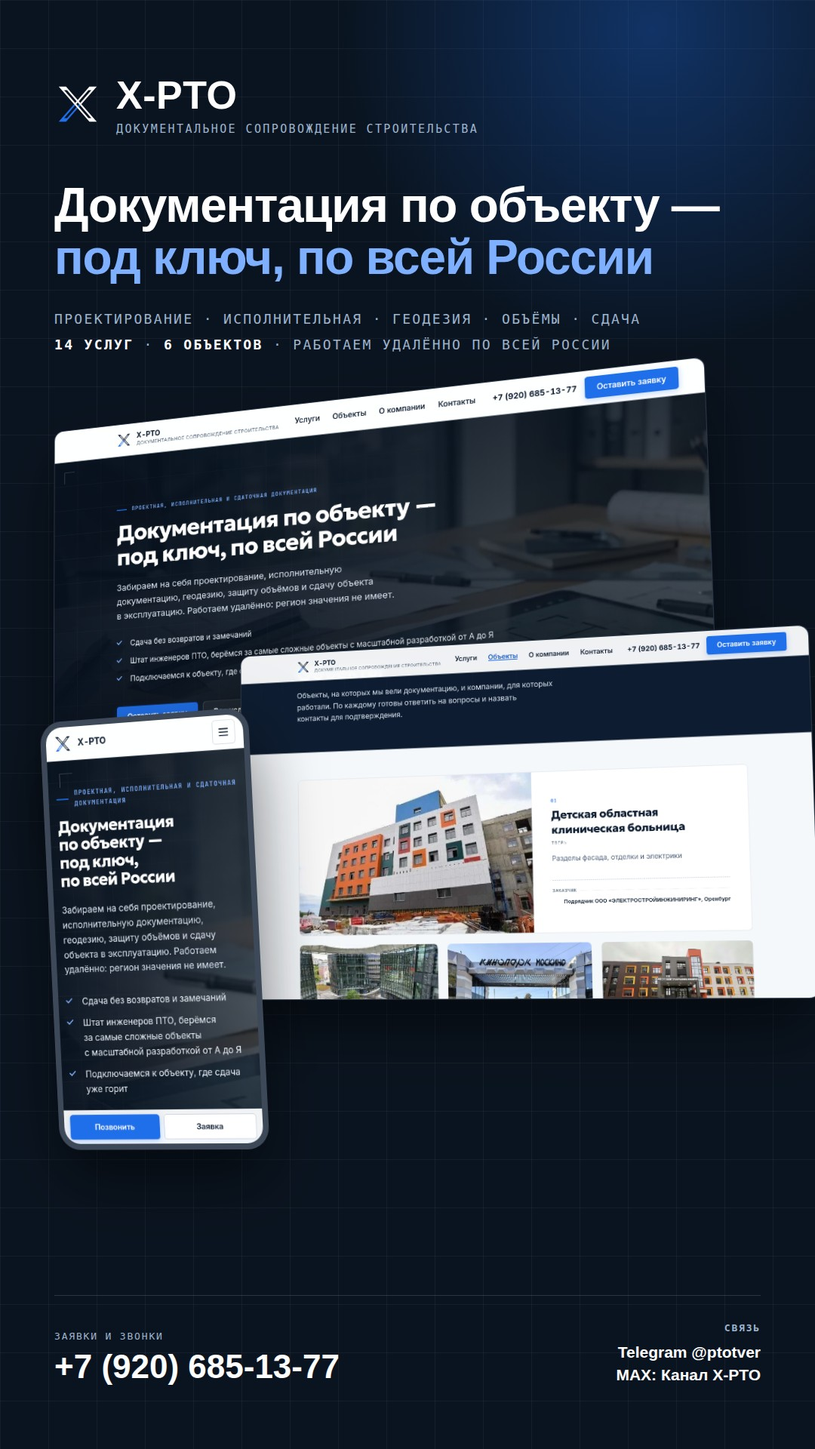
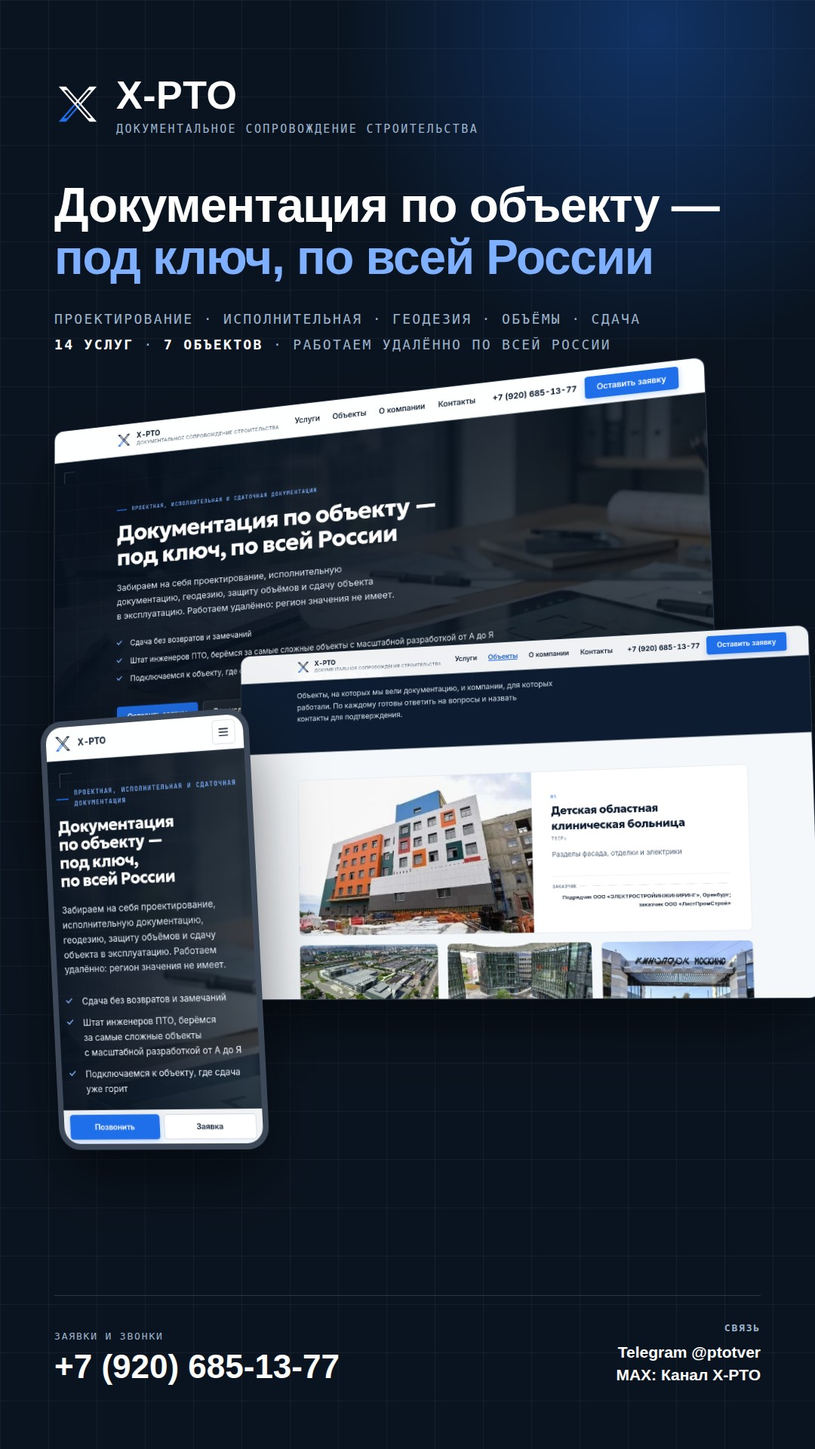
Новый объект «ОДК-Салют» и второй заказчик у больницы
Два разных объекта, оба по сообщению Андрея.

1. НОВЫЙ ОБЪЕКТ. Производственный комплекс «ОДК-Салют», Москва.
   Застройщик — Ростех, технический заказчик
   ООО «ЭЛЕКТРОСТРОЙИНЖИНИРИНГ». Фотография приложена.
   Поставлен вторым в списке, а не первым: у первой карточки
   фотография выводится во всю ширину, а присланный снимок для
   этого мелковат — на широкой карточке он был бы мыльным.
   Строки «что делали» у карточки пока нет: Андрей её не называл.

2. БОЛЬНИЦА. К подрядчику ООО «ЭЛЕКТРОСТРОЙИНЖИНИРИНГ», Оренбург,
   добавлен заказчик ООО «ЛистПромСтрой».

Кадры для сторис перерисованы: «Объекты» — с новой плиткой,
«Главная» — с числом 7 вместо 6. Инструмент кадра «Объекты» теперь
называет вслух объекты, которые не поместились в сетку 2x3:
на кадр их влезает ровно шесть, и пропажа не должна быть молчаливой.

Claude-Session: https://claude.ai/code/session_01KEthMgArrCL9xdLXpMnBrt

Changed region(s): [[0.3667, 0.5312, 0.9472, 0.6875]]

diff --git a/pto-site/dist/obekty/index.html b/pto-site/dist/obekty/index.html
@@ -42,7 +42,7 @@
 <script type="application/ld+json">{"@context":"https://schema.org","@type":"WebPage","@id":"https://example.com/obekty/#webpage","url":"https://example.com/obekty/","name":"Объекты — исполнительная документация и сопровождение строительства","description":"Объекты, на которых вели документацию: кинокластер «Москино», школа на 1224 места, областная детская больница, кампус МГТУ им. Баумана, Театр им. Камала.","inLanguage":"ru-RU","isPartOf":{"@id":"https://example.com/#website"},"about":{"@id":"https://example.com/#organization"}}</script>
 <script type="application/ld+json">{"@context":"https://schema.org","@type":"Organization","@id":"https://example.com/#organization","name":"X-PTO","legalName":"ИП Яковлев Андрей Эдуардович","description":"Готовим и защищаем документацию за строительные компании: проектирование, исполнительная документация, геодезия, объёмы, сдача объектов.","url":"https://example.com/","logo":"https://example.com/assets/img/logo.svg","image":"https://example.com/assets/img/og-default.jpg","sameAs":["https://t.me/ptotver","https://max.ru/join/767tQxLCZEngUD6C-zVrLSQrGCyglhaHOgaYCQDe4zA"],"email":"lopezr2@yandex.ru","telephone":"+79206851377","taxID":"695014483664","areaServed":{"@type":"Country","name":"Россия"},"founder":{"@type":"Person","name":"Яковлев Андрей Эдуардович"},"knowsAbout":["Проектирование объектов (стадия «П»)","Проектирование в формате White Label","Актуализация проектов после СМР и легализация изменений","Сопровождение в Госэкспертизе","Исполнительная документация под ключ (Минстрой, ГОСТ)","Исполнительная документация под регламенты операторов связи","Цифровая исполнительная документация в ИСУП Exon","Сметная документация","ППР и технологические карты","Геодезия и аудит объёмов","Защита выполненных объёмов (КС-2, КС-3)","Электротехнические испытания","Прохождение Ростехнадзора и подключение сетей","Сдача объекта и получение ЗОС"],"contactPoint":[{"@type":"ContactPoint","telephone":"+79206851377","email":"lopezr2@yandex.ru","contactType":"sales","areaServed":"RU","availableLanguage":"Russian"}]}</script>
 <script type="application/ld+json">{"@context":"https://schema.org","@type":"BreadcrumbList","itemListElement":[{"@type":"ListItem","position":1,"name":"Главная","item":"https://example.com/"},{"@type":"ListItem","position":2,"name":"Объекты","item":"https://example.com/obekty/"}]}</script>
-<script type="application/ld+json">{"@context":"https://schema.org","@type":"ItemList","name":"Объекты","itemListElement":[{"@type":"ListItem","position":1,"name":"Детская областная клиническая больница, Тверь"},{"@type":"ListItem","position":2,"name":"Новый кампус МГТУ им. Н. Э. Баумана, Москва"},{"@type":"ListItem","position":3,"name":"Кинокластер «Москино» и «МЕТМАШ», Москва"},{"@type":"ListItem","position":4,"name":"Школа на 1224 места, Тверь"},{"@type":"ListItem","position":5,"name":"Театр им. Г. Камала, новое здание, Казань"},{"@type":"ListItem","position":6,"name":"Спортшкола олимпийского резерва по гребле и парусному спорту им. А. Серединой, Тверь"}]}</script>
+<script type="application/ld+json">{"@context":"https://schema.org","@type":"ItemList","name":"Объекты","itemListElement":[{"@type":"ListItem","position":1,"name":"Детская областная клиническая больница, Тверь"},{"@type":"ListItem","position":2,"name":"Производственный комплекс «ОДК-Салют», Москва"},{"@type":"ListItem","position":3,"name":"Новый кампус МГТУ им. Н. Э. Баумана, Москва"},{"@type":"ListItem","position":4,"name":"Кинокластер «Москино» и «МЕТМАШ», Москва"},{"@type":"ListItem","position":5,"name":"Школа на 1224 места, Тверь"},{"@type":"ListItem","position":6,"name":"Театр им. Г. Камала, новое здание, Казань"},{"@type":"ListItem","position":7,"name":"Спортшкола олимпийского резерва по гребле и парусному спорту им. А. Серединой, Тверь"}]}</script>
 </head>
 <body>
 <a class="skip-link" href="#main">Перейти к содержанию</a>
@@ -102,14 +102,26 @@ d="M6 8 H16 L58 56 H48 Z M13.375 13 H17.375 L50.625 51 H46.625 Z"/>
 <p class="object__scope">Разделы фасада, отделки и электрики</p>
 <div class="spec">
 <div class="spec__row"><span class="spec__key">Заказчик</span>
-<span class="spec__dots"></span><span class="spec__val">Подрядчик ООО «ЭЛЕКТРОСТРОЙИНЖИНИРИНГ», Оренбург</span></div>
+<span class="spec__dots"></span><span class="spec__val">Подрядчик ООО «ЭЛЕКТРОСТРОЙИНЖИНИРИНГ», Оренбург; заказчик ООО «ЛистПромСтрой»</span></div>
+</div>
+</div>
+</article>
+<article class="object">
+<div class="object__media"><img class="object__img" src="/assets/img/objects/odk-salyut-moskva.webp" srcset="/assets/img/objects/odk-salyut-moskva-480.webp 480w, /assets/img/objects/odk-salyut-moskva.webp 481w" sizes="(max-width: 720px) calc(100vw - 2.5rem), (max-width: 1020px) 46vw, 31vw" width="481" height="306" alt="Производственный комплекс «ОДК-Салют», Москва" loading="lazy" decoding="async"></div>
+<div class="object__body">
+<span class="object__num">02</span>
+<h2 class="object__name">Производственный комплекс «ОДК-Салют»</h2>
+<span class="object__city">Москва</span>
+<div class="spec">
+<div class="spec__row"><span class="spec__key">Заказчик</span>
+<span class="spec__dots"></span><span class="spec__val">Застройщик — Ростех, технический заказчик ООО «ЭЛЕКТРОСТРОЙИНЖИНИРИНГ»</span></div>
 </div>
 </div>
 </article>
 <article class="object">
 <button class="object__media object__media--more" type="button" data-gallery="[&quot;/assets/img/objects/bauman-kampus-moskva.webp&quot;, &quot;/assets/img/objects/bauman-kampus-moskva-2.webp&quot;, &quot;/assets/img/objects/bauman-kampus-moskva-3.webp&quot;]" data-caption="Новый кампус МГТУ им. Н. Э. Баумана · Москва"><picture><source type="image/avif" srcset="/assets/img/objects/bauman-kampus-moskva-480.avif 480w, /assets/img/objects/bauman-kampus-moskva-960.avif 960w" sizes="(max-width: 720px) calc(100vw - 2.5rem), (max-width: 1020px) 46vw, 31vw"><img class="object__img" src="/assets/img/objects/bauman-kampus-moskva.webp" srcset="/assets/img/objects/bauman-kampus-moskva-480.webp 480w, /assets/img/objects/bauman-kampus-moskva-960.webp 960w, /assets/img/objects/bauman-kampus-moskva.webp 1600w" sizes="(max-width: 720px) calc(100vw - 2.5rem), (max-width: 1020px) 46vw, 31vw" width="1600" height="900" alt="Новый кампус МГТУ им. Н. Э. Баумана, Москва" loading="lazy" decoding="async"></picture><span class="object__count">3 фото</span></button>
 <div class="object__body">
-<span class="object__num">02</span>
+<span class="object__num">03</span>
 <h2 class="object__name">Новый кампус МГТУ им. Н. Э. Баумана</h2>
 <span class="object__city">Москва</span>
 <p class="object__scope">Документация по фасадным балкам и металлоконструкциям, окраска декоративных и пожарных шахт лифтов, антикоррозийная окраска металла</p>
@@ -122,7 +134,7 @@ d="M6 8 H16 L58 56 H48 Z M13.375 13 H17.375 L50.625 51 H46.625 Z"/>
 <article class="object">
 <div class="object__media"><picture><source type="image/avif" srcset="/assets/img/objects/moskino-metmash-480.avif 480w, /assets/img/objects/moskino-metmash-960.avif 960w" sizes="(max-width: 720px) calc(100vw - 2.5rem), (max-width: 1020px) 46vw, 31vw"><img class="object__img" src="/assets/img/objects/moskino-metmash.webp" srcset="/assets/img/objects/moskino-metmash-480.webp 480w, /assets/img/objects/moskino-metmash-960.webp 960w, /assets/img/objects/moskino-metmash.webp 1240w" sizes="(max-width: 720px) calc(100vw - 2.5rem), (max-width: 1020px) 46vw, 31vw" width="1240" height="826" alt="Кинокластер «Москино» и «МЕТМАШ», Москва" loading="lazy" decoding="async"></picture></div>
 <div class="object__body">
-<span class="object__num">03</span>
+<span class="object__num">04</span>
 <h2 class="object__name">Кинокластер «Москино» и «МЕТМАШ»</h2>
 <span class="object__city">Москва</span>
 <p class="object__scope">Документация под ключ по четырём корпусам: все строительные разделы от котлована до отделки</p>
@@ -135,7 +147,7 @@ d="M6 8 H16 L58 56 H48 Z M13.375 13 H17.375 L50.625 51 H46.625 Z"/>
 <article class="object">
 <div class="object__media"><picture><source type="image/avif" srcset="/assets/img/objects/shkola-1224-tver-480.avif 480w, /assets/img/objects/shkola-1224-tver-960.avif 960w" sizes="(max-width: 720px) calc(100vw - 2.5rem), (max-width: 1020px) 46vw, 31vw"><img class="object__img" src="/assets/img/objects/shkola-1224-tver.webp" srcset="/assets/img/objects/shkola-1224-tver-480.webp 480w, /assets/img/objects/shkola-1224-tver-960.webp 960w, /assets/img/objects/shkola-1224-tver.webp 1240w" sizes="(max-width: 720px) calc(100vw - 2.5rem), (max-width: 1020px) 46vw, 31vw" width="1240" height="930" alt="Школа на 1224 места, Тверь" loading="lazy" decoding="async"></picture></div>
 <div class="object__body">
-<span class="object__num">04</span>
+<span class="object__num">05</span>
 <h2 class="object__name">Школа на 1224 места</h2>
 <span class="object__city">Тверь</span>
 <p class="object__scope">Все разделы от первой сваи до Заключения о соответствии, включая прохождение Ростехнадзора. Очная сдача застройщику</p>
@@ -148,7 +160,7 @@ d="M6 8 H16 L58 56 H48 Z M13.375 13 H17.375 L50.625 51 H46.625 Z"/>
 <article class="object">
 <div class="object__media"><picture><source type="image/avif" srcset="/assets/img/objects/teatr-kamala-kazan-480.avif 480w, /assets/img/objects/teatr-kamala-kazan-960.avif 960w" sizes="(max-width: 720px) calc(100vw - 2.5rem), (max-width: 1020px) 46vw, 31vw"><img class="object__img" src="/assets/img/objects/teatr-kamala-kazan.webp" srcset="/assets/img/objects/teatr-kamala-kazan-480.webp 480w, /assets/img/objects/teatr-kamala-kazan-960.webp 960w, /assets/img/objects/teatr-kamala-kazan.webp 1170w" sizes="(max-width: 720px) calc(100vw - 2.5rem), (max-width: 1020px) 46vw, 31vw" width="1170" height="780" alt="Театр им. Г. Камала, новое здание, Казань" loading="lazy" decoding="async"></picture></div>
 <div class="object__body">
-<span class="object__num">05</span>
+<span class="object__num">06</span>
 <h2 class="object__name">Театр им. Г. Камала, новое здание</h2>
 <span class="object__city">Казань</span>
 <p class="object__scope">Наружные инженерные сети и отделка</p>
@@ -161,7 +173,7 @@ d="M6 8 H16 L58 56 H48 Z M13.375 13 H17.375 L50.625 51 H46.625 Z"/>
 <article class="object">
 <button class="object__media object__media--more" type="button" data-gallery="[&quot;/assets/img/objects/sportshkola-grebli-tver.webp&quot;, &quot;/assets/img/objects/sportshkola-grebli-tver-2.webp&quot;]" data-caption="Спортшкола олимпийского резерва по гребле и парусному спорту им. А. Серединой · Тверь"><picture><source type="image/avif" srcset="/assets/img/objects/sportshkola-grebli-tver-480.avif 480w, /assets/img/objects/sportshkola-grebli-tver-960.avif 960w" sizes="(max-width: 720px) calc(100vw - 2.5rem), (max-width: 1020px) 46vw, 31vw"><img class="object__img" src="/assets/img/objects/sportshkola-grebli-tver.webp" srcset="/assets/img/objects/sportshkola-grebli-tver-480.webp 480w, /assets/img/objects/sportshkola-grebli-tver-960.webp 960w, /assets/img/objects/sportshkola-grebli-tver.webp 1200w" sizes="(max-width: 720px) calc(100vw - 2.5rem), (max-width: 1020px) 46vw, 31vw" width="1200" height="900" alt="Спортшкола олимпийского резерва по гребле и парусному спорту им. А. Серединой, Тверь" loading="lazy" decoding="async"></picture><span class="object__count">2 фото</span></button>
 <div class="object__body">
-<span class="object__num">06</span>
+<span class="object__num">07</span>
 <h2 class="object__name">Спортшкола олимпийского резерва по гребле и парусному спорту им. А. Серединой</h2>
 <span class="object__city">Тверь</span>
 <p class="object__scope">Прохождение Ростехнадзора по энергопринимающим и тепловым установкам</p>

diff --git a/pto-site/dist/index.html b/pto-site/dist/index.html
@@ -277,33 +277,32 @@ data-src="/assets/media/hero.webm|/assets/media/hero.mp4" data-src-mobile="/asse
 <p class="object__scope">Разделы фасада, отделки и электрики</p>
 <div class="spec">
 <div class="spec__row"><span class="spec__key">Заказчик</span>
-<span class="spec__dots"></span><span class="spec__val">Подрядчик ООО «ЭЛЕКТРОСТРОЙИНЖИНИРИНГ», Оренбург</span></div>
+<span class="spec__dots"></span><span class="spec__val">Подрядчик ООО «ЭЛЕКТРОСТРОЙИНЖИНИРИНГ», Оренбург; заказчик ООО «ЛистПромСтрой»</span></div>
+</div>
+</div>
+</article>
+<article class="object">
+<div class="object__media"><img class="object__img" src="/assets/img/objects/odk-salyut-moskva.webp" srcset="/assets/img/objects/odk-salyut-moskva-480.webp 480w, /assets/img/objects/odk-salyut-moskva.webp 481w" sizes="(max-width: 720px) calc(100vw - 2.5rem), (max-width: 1020px) 46vw, 31vw" width="481" height="306" alt="Производственный комплекс «ОДК-Салют», Москва" loading="lazy" decoding="async"></div>
+<div class="object__body">
+<span class="object__num">02</span>
+<h3 class="object__name">Производственный комплекс «ОДК-Салют»</h3>
+<span class="object__city">Москва</span>
+<div class="spec">
+<div class="spec__row"><span class="spec__key">Заказчик</span>
+<span class="spec__dots"></span><span class="spec__val">Застройщик — Ростех, технический заказчик ООО «ЭЛЕКТРОСТРОЙИНЖИНИРИНГ»</span></div>
 </div>
 </div>
 </article>
 <article class="object">
 <button class="object__media object__media--more" type="button" data-gallery="[&quot;/assets/img/objects/bauman-kampus-moskva.webp&quot;, &quot;/assets/img/objects/bauman-kampus-moskva-2.webp&quot;, &quot;/assets/img/objects/bauman-kampus-moskva-3.webp&quot;]" data-caption="Новый кампус МГТУ им. Н. Э. Баумана · Москва"><picture><source type="image/avif" srcset="/assets/img/objects/bauman-kampus-moskva-480.avif 480w, /assets/img/objects/bauman-kampus-moskva-960.avif 960w" sizes="(max-width: 720px) calc(100vw - 2.5rem), (max-width: 1020px) 46vw, 31vw"><img class="object__img" src="/assets/img/objects/bauman-kampus-moskva.webp" srcset="/assets/img/objects/bauman-kampus-moskva-480.webp 480w, /assets/img/objects/bauman-kampus-moskva-960.webp 960w, /assets/img/objects/bauman-kampus-moskva.webp 1600w" sizes="(max-width: 720px) calc(100vw - 2.5rem), (max-width: 1020px) 46vw, 31vw" width="1600" height="900" alt="Новый кампус МГТУ им. Н. Э. Баумана, Москва" loading="lazy" decoding="async"></picture><span class="object__count">3 фото</span></button>
 <div class="object__body">
-<span class="object__num">02</span>
+<span class="object__num">03</span>
 <h3 class="object__name">Новый кампус МГТУ им. Н. Э. Баумана</h3>
 <span class="object__city">Москва</span>
 <p class="object__scope">Документация по фасадным балкам и металлоконструкциям, окраска декоративных и пожарных шахт лифтов, антикоррозийная окраска металла</p>
 <div class="spec">
 <div class="spec__row"><span class="spec__key">Заказчик</span>
 <span class="spec__dots"></span><span class="spec__val">Технический заказчик ООО «ИнжКапСтрой», непосредственный заказчик ИП Саввин Н. В.</span></div>
-</div>
-</div>
-</article>
-<article class="object">
-<div class="object__media"><picture><source type="image/avif" srcset="/assets/img/objects/moskino-metmash-480.avif 480w, /assets/img/objects/moskino-metmash-960.avif 960w" sizes="(max-width: 720px) calc(100vw - 2.5rem), (max-width: 1020px) 46vw, 31vw"><img class="object__img" src="/assets/img/objects/moskino-metmash.webp" srcset="/assets/img/objects/moskino-metmash-480.webp 480w, /assets/img/objects/moskino-metmash-960.webp 960w, /assets/img/objects/moskino-metmash.webp 1240w" sizes="(max-width: 720px) calc(100vw - 2.5rem), (max-width: 1020px) 46vw, 31vw" width="1240" height="826" alt="Кинокластер «Москино» и «МЕТМАШ», Москва" loading="lazy" decoding="async"></picture></div>
-<div class="object__body">
-<span class="object__num">03</span>
-<h3 class="object__name">Кинокластер «Москино» и «МЕТМАШ»</h3>
-<span class="object__city">Москва</span>
-<p class="object__scope">Документация под ключ по четырём корпусам: все строительные разделы от котлована до отделки</p>
-<div class="spec">
-<div class="spec__row"><span class="spec__key">Заказчик</span>
-<span class="spec__dots"></span><span class="spec__val">Подрядчик ООО «АРМАДА», Москва</span></div>
 </div>
 </div>
 </article>

diff --git a/pto-site/dist/assets/promo/index.html b/pto-site/dist/assets/promo/index.html
@@ -25,26 +25,26 @@ a{color:#7fb0ff}
 Нажмите на картинку и подержите пару секунд → «Сохранить изображение».
 Размер уже готовый, 1080×1920.</p>
 <figure>
-<video src="x-pto-video.mp4?v=4" controls playsinline preload="metadata"
-poster="x-pto-1-glavnaya.jpg?v=4"></video>
+<video src="x-pto-video.mp4?v=5" controls playsinline preload="metadata"
+poster="x-pto-1-glavnaya.jpg?v=5"></video>
 <figcaption><b>Видео · 26 секунд.</b> Пролистывание сайта на телефоне,
-объекты и финальный кадр. <a href="x-pto-video.mp4?v=4" download>Скачать видео</a></figcaption>
+объекты и финальный кадр. <a href="x-pto-video.mp4?v=5" download>Скачать видео</a></figcaption>
 </figure>
-<figure><a href="x-pto-1-glavnaya.jpg?v=4"><img src="x-pto-1-glavnaya.jpg?v=4" alt="Кадр 1: Главная"></a>
+<figure><a href="x-pto-1-glavnaya.jpg?v=5"><img src="x-pto-1-glavnaya.jpg?v=5" alt="Кадр 1: Главная"></a>
 <figcaption><b>1 · Главная.</b> Первый экран сайта и объекты</figcaption></figure>
-<figure><a href="x-pto-2-uslugi.jpg?v=4"><img src="x-pto-2-uslugi.jpg?v=4" alt="Кадр 2: Услуги"></a>
+<figure><a href="x-pto-2-uslugi.jpg?v=5"><img src="x-pto-2-uslugi.jpg?v=5" alt="Кадр 2: Услуги"></a>
 <figcaption><b>2 · Услуги.</b> Четыре направления, 14 услуг</figcaption></figure>
-<figure><a href="x-pto-3-obekty.jpg?v=4"><img src="x-pto-3-obekty.jpg?v=4" alt="Кадр 3: Объекты"></a>
+<figure><a href="x-pto-3-obekty.jpg?v=5"><img src="x-pto-3-obekty.jpg?v=5" alt="Кадр 3: Объекты"></a>
 <figcaption><b>3 · Объекты.</b> Шесть объектов с фотографиями</figcaption></figure>
-<figure><a href="x-pto-4-pisma.jpg?v=4"><img src="x-pto-4-pisma.jpg?v=4" alt="Кадр 4: Письма"></a>
+<figure><a href="x-pto-4-pisma.jpg?v=5"><img src="x-pto-4-pisma.jpg?v=5" alt="Кадр 4: Письма"></a>
 <figcaption><b>4 · Письма.</b> Рекомендации и благодарность министерства</figcaption></figure>
-<figure><a href="x-pto-5-process.jpg?v=4"><img src="x-pto-5-process.jpg?v=4" alt="Кадр 5: Как мы работаем"></a>
+<figure><a href="x-pto-5-process.jpg?v=5"><img src="x-pto-5-process.jpg?v=5" alt="Кадр 5: Как мы работаем"></a>
 <figcaption><b>5 · Как мы работаем.</b> Шесть шагов от заявки до передачи</figcaption></figure>
-<figure><a href="x-pto-6-pochemu.jpg?v=4"><img src="x-pto-6-pochemu.jpg?v=4" alt="Кадр 6: Почему к нам"></a>
+<figure><a href="x-pto-6-pochemu.jpg?v=5"><img src="x-pto-6-pochemu.jpg?v=5" alt="Кадр 6: Почему к нам"></a>
 <figcaption><b>6 · Почему к нам.</b> Четыре причины возвращаться</figcaption></figure>
-<figure><a href="x-pto-7-usloviya.jpg?v=4"><img src="x-pto-7-usloviya.jpg?v=4" alt="Кадр 7: Условия"></a>
+<figure><a href="x-pto-7-usloviya.jpg?v=5"><img src="x-pto-7-usloviya.jpg?v=5" alt="Кадр 7: Условия"></a>
 <figcaption><b>7 · Условия.</b> Договор с фиксированной ценой</figcaption></figure>
-<figure><a href="x-pto-8-zayavka.jpg?v=4"><img src="x-pto-8-zayavka.jpg?v=4" alt="Кадр 8: Заявка"></a>
+<figure><a href="x-pto-8-zayavka.jpg?v=5"><img src="x-pto-8-zayavka.jpg?v=5" alt="Кадр 8: Заявка"></a>
 <figcaption><b>8 · Заявка.</b> Форма и режим работы — закрывающий кадр</figcaption></figure>
 </div>
 </html>

diff --git a/pto-site/assets/promo/index.html b/pto-site/assets/promo/index.html
@@ -26,34 +26,34 @@
      Размер уже готовый, 1080×1920.</p>
 
   <figure>
-    <video src="x-pto-video.mp4?v=4" controls playsinline preload="metadata"
-           poster="x-pto-1-glavnaya.jpg?v=4"></video>
+    <video src="x-pto-video.mp4?v=5" controls playsinline preload="metadata"
+           poster="x-pto-1-glavnaya.jpg?v=5"></video>
     <figcaption><b>Видео · 26 секунд.</b> Пролистывание сайта на телефоне,
-      объекты и финальный кадр. <a href="x-pto-video.mp4?v=4" download>Скачать видео</a></figcaption>
+      объекты и финальный кадр. <a href="x-pto-video.mp4?v=5" download>Скачать видео</a></figcaption>
   </figure>
 
-  <figure><a href="x-pto-1-glavnaya.jpg?v=4"><img src="x-pto-1-glavnaya.jpg?v=4" alt="Кадр 1: Главная"></a>
+  <figure><a href="x-pto-1-glavnaya.jpg?v=5"><img src="x-pto-1-glavnaya.jpg?v=5" alt="Кадр 1: Главная"></a>
     <figcaption><b>1 · Главная.</b> Первый экран сайта и объекты</figcaption></figure>
 
-  <figure><a href="x-pto-2-uslugi.jpg?v=4"><img src="x-pto-2-uslugi.jpg?v=4" alt="Кадр 2: Услуги"></a>
+  <figure><a href="x-pto-2-uslugi.jpg?v=5"><img src="x-pto-2-uslugi.jpg?v=5" alt="Кадр 2: Услуги"></a>
     <figcaption><b>2 · Услуги.</b> Четыре направления, 14 услуг</figcaption></figure>
 
-  <figure><a href="x-pto-3-obekty.jpg?v=4"><img src="x-pto-3-obekty.jpg?v=4" alt="Кадр 3: Объекты"></a>
+  <figure><a href="x-pto-3-obekty.jpg?v=5"><img src="x-pto-3-obekty.jpg?v=5" alt="Кадр 3: Объекты"></a>
     <figcaption><b>3 · Объекты.</b> Шесть объектов с фотографиями</figcaption></figure>
 
-  <figure><a href="x-pto-4-pisma.jpg?v=4"><img src="x-pto-4-pisma.jpg?v=4" alt="Кадр 4: Письма"></a>
+  <figure><a href="x-pto-4-pisma.jpg?v=5"><img src="x-pto-4-pisma.jpg?v=5" alt="Кадр 4: Письма"></a>
     <figcaption><b>4 · Письма.</b> Рекомендации и благодарность министерства</figcaption></figure>
 
-  <figure><a href="x-pto-5-process.jpg?v=4"><img src="x-pto-5-process.jpg?v=4" alt="Кадр 5: Как мы работаем"></a>
+  <figure><a href="x-pto-5-process.jpg?v=5"><img src="x-pto-5-process.jpg?v=5" alt="Кадр 5: Как мы работаем"></a>
     <figcaption><b>5 · Как мы работаем.</b> Шесть шагов от заявки до передачи</figcaption></figure>
 
-  <figure><a href="x-pto-6-pochemu.jpg?v=4"><img src="x-pto-6-pochemu.jpg?v=4" alt="Кадр 6: Почему к нам"></a>
+  <figure><a href="x-pto-6-pochemu.jpg?v=5"><img src="x-pto-6-pochemu.jpg?v=5" alt="Кадр 6: Почему к нам"></a>
     <figcaption><b>6 · Почему к нам.</b> Четыре причины возвращаться</figcaption></figure>
 
-  <figure><a href="x-pto-7-usloviya.jpg?v=4"><img src="x-pto-7-usloviya.jpg?v=4" alt="Кадр 7: Условия"></a>
+  <figure><a href="x-pto-7-usloviya.jpg?v=5"><img src="x-pto-7-usloviya.jpg?v=5" alt="Кадр 7: Условия"></a>
     <figcaption><b>7 · Условия.</b> Договор с фиксированной ценой</figcaption></figure>
 
-  <figure><a href="x-pto-8-zayavka.jpg?v=4"><img src="x-pto-8-zayavka.jpg?v=4" alt="Кадр 8: Заявка"></a>
+  <figure><a href="x-pto-8-zayavka.jpg?v=5"><img src="x-pto-8-zayavka.jpg?v=5" alt="Кадр 8: Заявка"></a>
     <figcaption><b>8 · Заявка.</b> Форма и режим работы — закрывающий кадр</figcaption></figure>
 </div>
 </html>

diff --git a/pto-site/tools/make-story-objects.py b/pto-site/tools/make-story-objects.py
@@ -131,7 +131,11 @@ CARD = """
 def main() -> int:
     site = json.loads((ROOT / "data" / "site.json").read_text(encoding="utf-8"))
     company, contacts = site["company"], site["contacts"]
-    items = site["portfolio"]["items"][:6]
+    # На кадр помещается ровно шесть плиток — сетка 2x3. Если объектов
+    # больше, остальные в кадр не войдут; инструмент называет их вслух,
+    # чтобы пропажа не была молчаливой.
+    all_items = site["portfolio"]["items"]
+    items, left_out = all_items[:6], all_items[6:]
 
     logo = re.sub(r"<!--.*?-->", "",
                   (ROOT / "assets" / "img" / "logo.svg").read_text(encoding="utf-8"),
@@ -170,6 +174,10 @@ def main() -> int:
     print(f"Готово: {OUT.relative_to(ROOT)} — объектов на кадре: {len(items)}")
     for it in items:
         print(f"  • {it['name']}, {it['city']}")
+    if left_out:
+        print(f"\nНе поместились на кадр ({len(left_out)}) — на сайте они есть:")
+        for it in left_out:
+            print(f"  – {it['name']}, {it['city']}")
     return 0
 
 
